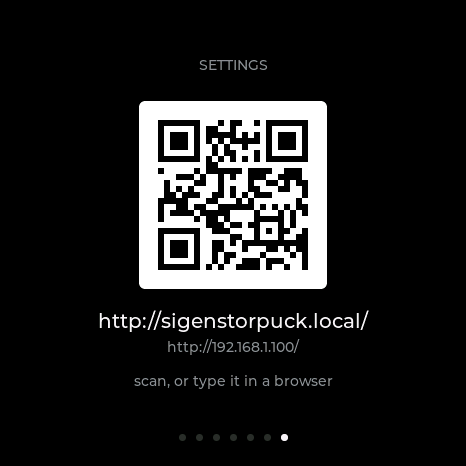
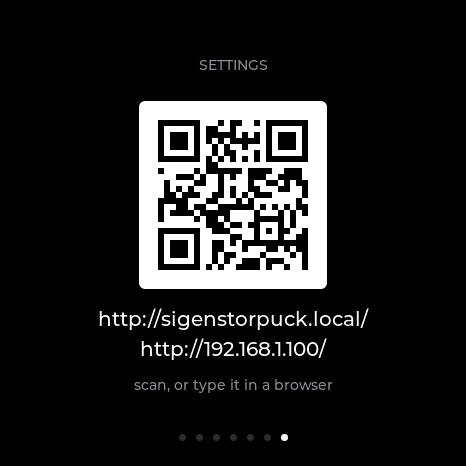
Set both addresses the same on the settings screen
The overlay learned to show the address at full brightness, and the
settings screen did not — so the same two URLs were prominent on one
screen and a muted footnote on the other, a difference with no reason
behind it.

Worse, the half being demoted was the IP, which is the address that
actually works: mDNS is what fails, on Android and on any router dropping
multicast between bands, and the QR encodes the IP for exactly that
reason. Setting it in small grey under the name told the reader the
opposite of what the design already knew.

Both are body weight and full brightness now, with the hint below them
still muted. README screenshot regenerated; the other six came out
byte-identical, which is the check that nothing else moved.

Changed region(s): [[0.2103, 0.6609, 0.8112, 0.7811], [0.2704, 0.8112, 0.721, 0.8412]]

diff --git a/src/ui/screen_settings.cpp b/src/ui/screen_settings.cpp
@@ -51,14 +51,17 @@ lv_obj_t* screen_settings_create(lv_obj_t* parent) {
   lv_obj_align(s_qr, LV_ALIGN_CENTER, 0, -38);
 
   // The name first: it is the one worth remembering. The IP under it is what
-  // actually works when mDNS does not.
-  s_host = make_label(s_root, PUCK_FONT_BODY, PUCK_COLOUR_TEXT, 88);
+  // actually works when mDNS does not — which is why it is set the same size and
+  // the same brightness rather than demoted to a muted footnote. Both of these
+  // exist to be read off the glass and typed into a phone, and the QR encodes the
+  // IP precisely because it is the address least likely to fail.
+  s_host = make_label(s_root, PUCK_FONT_BODY, PUCK_COLOUR_TEXT, 86);
   lv_label_set_text(s_host, "");
 
-  s_ip = make_label(s_root, PUCK_FONT_SMALL, PUCK_COLOUR_MUTED, 114);
+  s_ip = make_label(s_root, PUCK_FONT_BODY, PUCK_COLOUR_TEXT, 116);
   lv_label_set_text(s_ip, "");
 
-  s_hint = make_label(s_root, PUCK_FONT_SMALL, PUCK_COLOUR_MUTED, 148);
+  s_hint = make_label(s_root, PUCK_FONT_SMALL, PUCK_COLOUR_MUTED, 152);
   lv_label_set_text(s_hint, "scan, or type it in a browser");
 
   screen_settings_set_address("", "");
